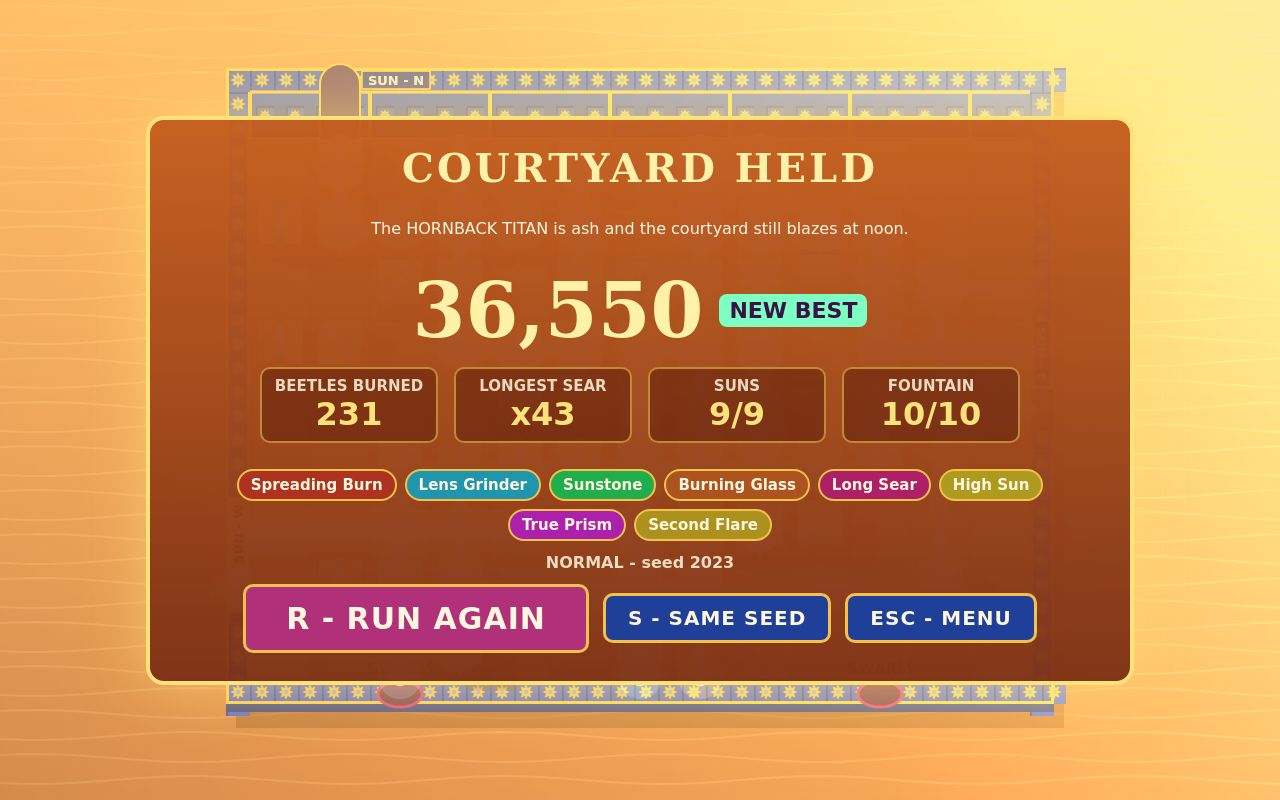
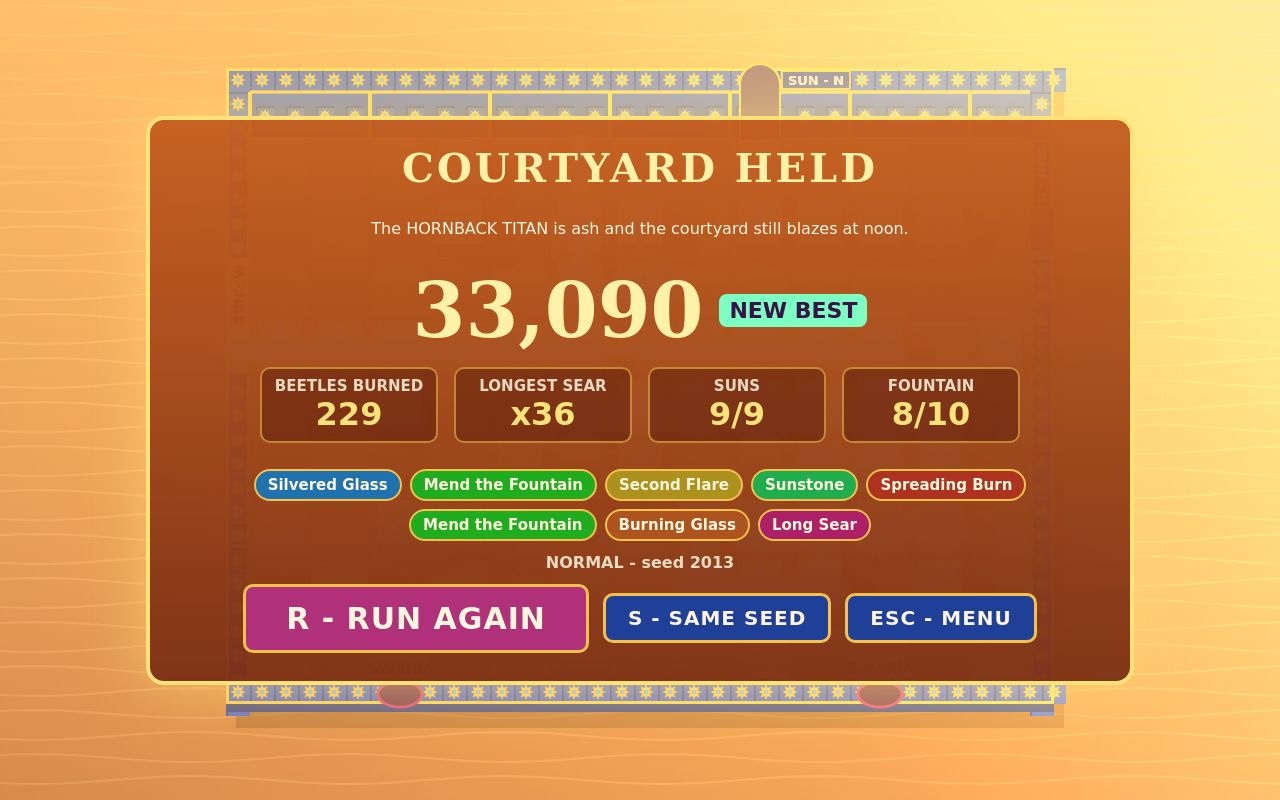
Staging director (tools/stageplan.mjs): sun 4 damage via real live rotations, bigger Day 2 noon swarm, cover picked for density and the fountain under threat (seed 2013: cover 7/10, 17 beetles)

diff --git a/game/src/config.js b/game/src/config.js
@@ -118,7 +118,7 @@ export const WAVES = [
   [['scuttler', 10, 0, 1, 1.2], ['veerwing', 4, 0, 7, 2.2]],
   [['scuttler', 10, 0, 1, 1.1], ['shellback', 2, 0, 9, 7], ['veerwing', 3, 0, 14, 2]],
   [['scuttler', 14, 2, 1, 0.9], ['veerwing', 5, 1, 8, 1.8]],
-  [['scuttler', 14, 2, 1, 0.8], ['shellback', 3, 2, 6, 5], ['veerwing', 6, 2, 12, 1.4]],
+  [['scuttler', 18, 2, 1, 0.65], ['shellback', 3, 2, 5, 4], ['veerwing', 7, 2, 6, 1]],
   [['scuttler', 18, 2, 1, 0.7], ['glassback', 3, 2, 3, 4], ['shellback', 3, 2, 6, 4.5], ['veerwing', 6, 2, 10, 1.3]],
   [['scuttler', 20, 2, 1, 0.6], ['glassback', 4, 2, 4, 3.5], ['veerwing', 10, 2, 5, 1.1], ['shellback', 4, 2, 9, 4]],
   [['scuttler', 22, 2, 1, 0.55], ['shellback', 6, 2, 3, 3.5], ['glassback', 4, 2, 6, 3], ['veerwing', 8, 2, 12, 1]],

diff --git a/NOTES.md b/NOTES.md
@@ -53,6 +53,12 @@
 - Floating numbers restyled (benchmark 2 item 5) + red -n FOUNTAIN floater; red march chevrons along
   each swarm route and a basin-of-water fountain sprite with its HP ring (item 3).
 
+- Staging v1: tools/stageplan.mjs (pure Node) plans a directed run: on sun 4 the director turns the
+  most useful glass off-target until the fountain is 8/10 (a real live action), sun 5 (now 18
+  Scuttlers + 3 Shellbacks + 7 Veerwings) plays normally and the cover is the best-scoring moment
+  (density, burning, fountain below max, fresh bite, beetle at the rim, 3+ opaque floaters).
+  Seed 2013 K=1: cover 7/10 with 17 beetles, draft 8/10, win 8/10. shots.mjs replays it.
+
 ## Next
 - M3 feel (rest): hit-stop-like pop on SEAR steps, fountain pip crack, quartz counter pulse,
   colour-blind beam patterns (option), How to play illustrated panels.
@@ -60,6 +66,8 @@
   staging player for waves 1-5 instead of the greedy bot (still one real seeded run, forward order).
 
 ## Known bugs
+- Staging: K=1 and K=2 give identical runs on every seed (director turns 1 piece either way?): check.
+- Cover still lacks a fresh bite + Scuttler at the rim + 4 burning; lens/flare overlap blows out.
 - Cover (seed 2023 greedy) has prisms on the board but none in the noon beam.
 
 ## Balance tally
